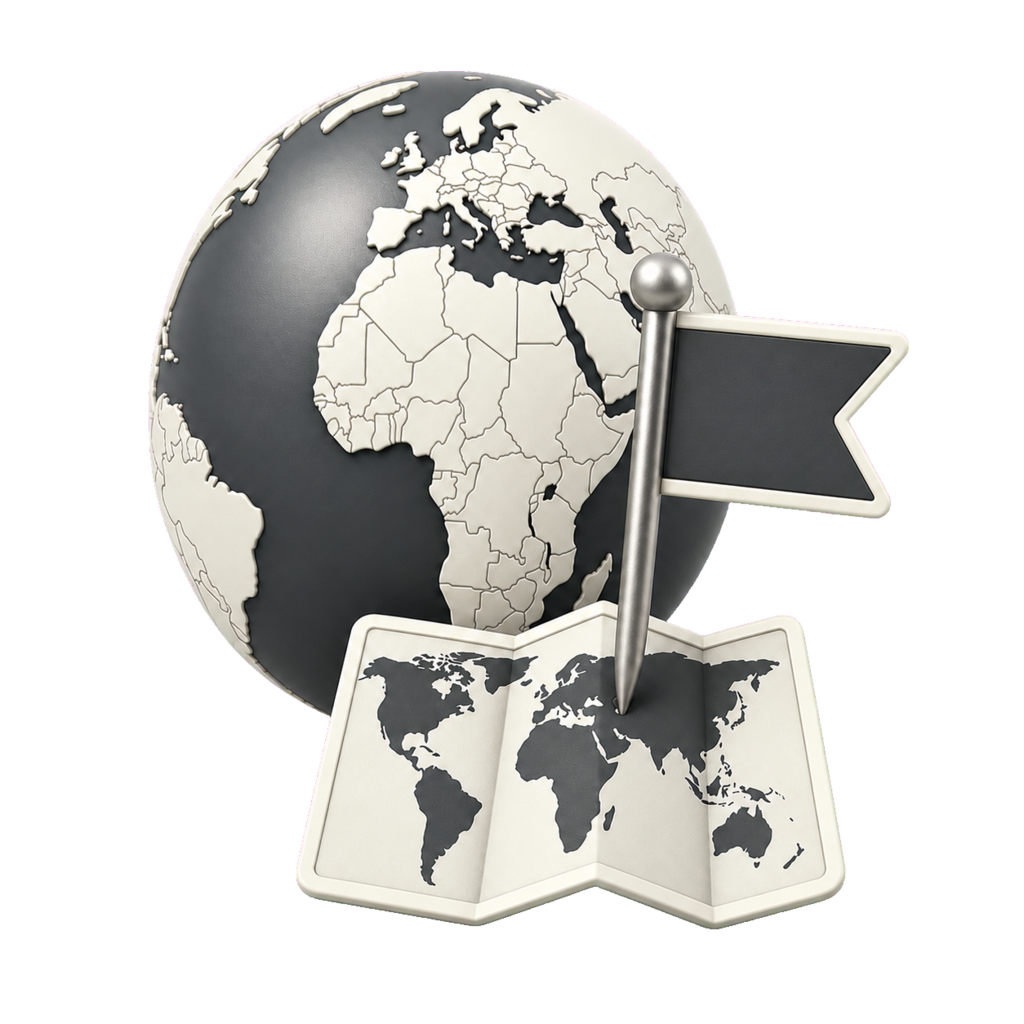
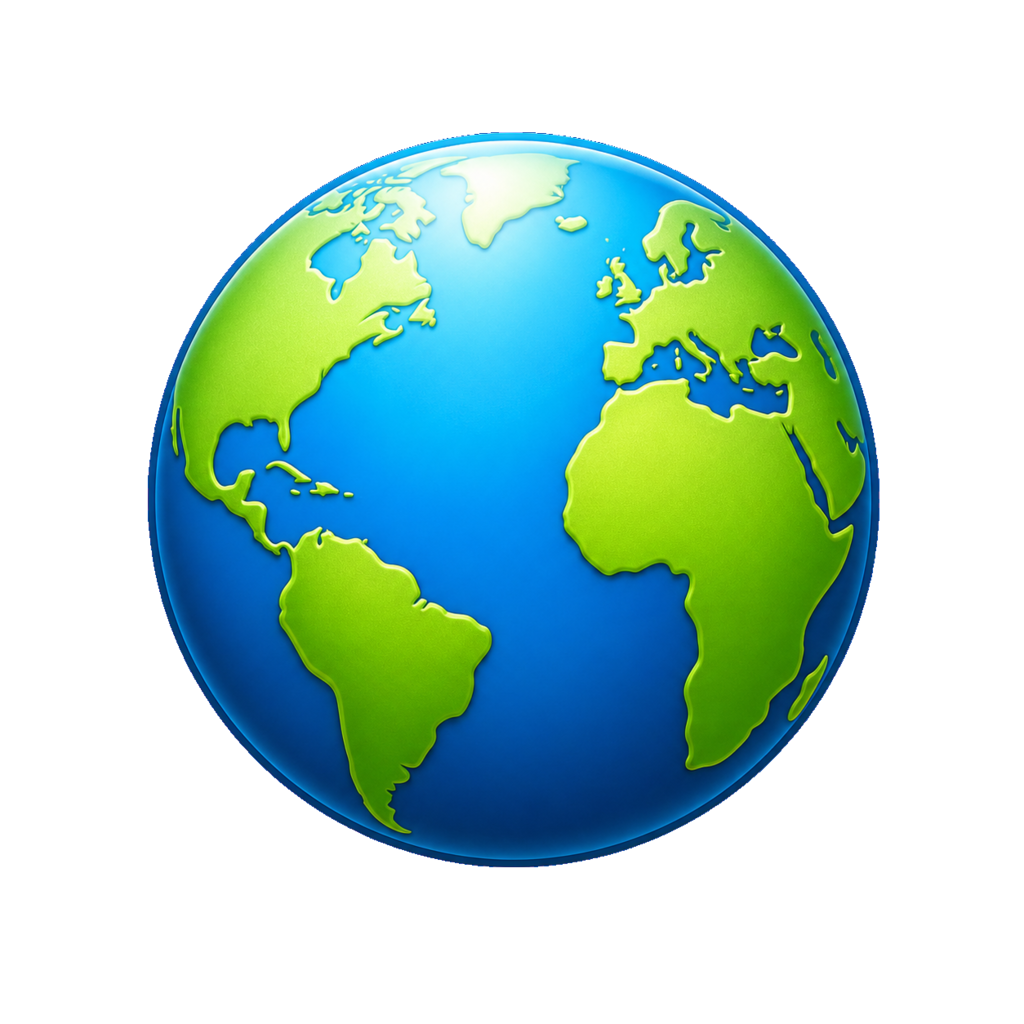
feat: add zodiac guides for constellations and improve rendering logic

diff --git a/applications/constellations-in-the-sky/render.html b/applications/constellations-in-the-sky/render.html
@@ -22,7 +22,6 @@
         min-height: 0;
         display: grid;
         grid-template-columns: minmax(0, 1fr) 226px;
-        border: 4px solid currentColor;
       }
 
       .sky-stage {
@@ -124,6 +123,10 @@
         font-weight: 720;
       }
 
+      .highlight-note:empty {
+        display: none !important;
+      }
+
       .fact-grid {
         display: grid;
         grid-template-columns: 1fr 1fr;
@@ -162,6 +165,11 @@
       .api-note {
         display: grid;
         gap: 3px;
+      }
+
+      .api-label,
+      .api-value {
+        display: none;
       }
 
       .api-value {
@@ -225,10 +233,6 @@
       }
 
       @media (max-width: 520px), (max-height: 520px) {
-        .stars-shell {
-          border-width: 3px;
-        }
-
         .stars-panel {
           gap: 8px;
           padding: 10px;
@@ -344,84 +348,96 @@
             name: "Aries",
             ra: 42,
             dec: 20,
-            note: "Aries is a small northern zodiac constellation. Its modest pattern sits between Pisces and Taurus and marks the Ram in the traditional zodiac."
+            note: "Aries is a small northern zodiac constellation. Its modest pattern sits between Pisces and Taurus and marks the Ram in the traditional zodiac.",
+            guide: "Look for a short bent line of three modest stars west of the Pleiades and east of Pisces. The brightest point is Hamal."
           },
           {
             key: "Tau",
             name: "Taurus",
             ra: 68,
             dec: 18,
-            note: "Taurus is one of the richest zodiac constellations, with Aldebaran, the Hyades, and the Pleiades all nearby."
+            note: "Taurus is one of the richest zodiac constellations, with Aldebaran, the Hyades, and the Pleiades all nearby.",
+            guide: "Find orange Aldebaran and the V-shaped Hyades. The tiny Pleiades cluster sits nearby and points you into Taurus."
           },
           {
             key: "Gem",
             name: "Gemini",
             ra: 105,
             dec: 24,
-            note: "Gemini is anchored by Castor and Pollux, the twin stars that make this winter constellation easy to recognize."
+            note: "Gemini is anchored by Castor and Pollux, the twin stars that make this winter constellation easy to recognize.",
+            guide: "Start with bright Castor and Pollux. From those twin stars, trace two roughly parallel chains back toward Orion."
           },
           {
             key: "Cnc",
             name: "Cancer",
             ra: 130,
             dec: 20,
-            note: "Cancer is faint, but it contains the Beehive Cluster, a bright open cluster visible under dark skies."
+            note: "Cancer is faint, but it contains the Beehive Cluster, a bright open cluster visible under dark skies.",
+            guide: "Cancer is faint. Look between Gemini and Leo for the hazy Beehive Cluster, then trace the small surrounding stars."
           },
           {
             key: "Leo",
             name: "Leo",
             ra: 153,
             dec: 13,
-            note: "Leo is marked by Regulus and a sickle-shaped head. It is one of spring's most recognizable zodiac constellations."
+            note: "Leo is marked by Regulus and a sickle-shaped head. It is one of spring's most recognizable zodiac constellations.",
+            guide: "Find bright Regulus, then follow the backward question-mark sickle above it. Denebola marks the lion's tail."
           },
           {
             key: "Vir",
             name: "Virgo",
             ra: 195,
             dec: -4,
-            note: "Virgo is the largest zodiac constellation. Its bright star Spica sits near the ecliptic path of the Moon and planets."
+            note: "Virgo is the largest zodiac constellation. Its bright star Spica sits near the ecliptic path of the Moon and planets.",
+            guide: "Arc from the Big Dipper handle to Arcturus, then continue the same curve to bright Spica. That anchors Virgo."
           },
           {
             key: "Lib",
             name: "Libra",
             ra: 230,
             dec: -15,
-            note: "Libra represents the scales. Its main stars form a compact shape between Virgo and Scorpius."
+            note: "Libra represents the scales. Its main stars form a compact shape between Virgo and Scorpius.",
+            guide: "Look between Spica in Virgo and red Antares in Scorpius. Libra is the modest diamond-like pattern between them."
           },
           {
             key: "Sco",
             name: "Scorpius",
             ra: 247,
             dec: -26,
-            note: "Scorpius is a dramatic zodiac constellation with the red star Antares and a long curved tail."
+            note: "Scorpius is a dramatic zodiac constellation with the red star Antares and a long curved tail.",
+            guide: "Find red Antares low in the south. From there, follow the curved chain of bright stars down to the scorpion tail."
           },
           {
             key: "Sgr",
             name: "Sagittarius",
             ra: 285,
             dec: -25,
-            note: "Sagittarius lies toward the center of the Milky Way. Its teapot-shaped star pattern is a useful summer guide."
+            note: "Sagittarius lies toward the center of the Milky Way. Its teapot-shaped star pattern is a useful summer guide.",
+            guide: "Search low in the south for the Teapot shape. The Milky Way looks like steam rising from its spout."
           },
           {
             key: "Cap",
             name: "Capricornus",
             ra: 315,
             dec: -18,
-            note: "Capricornus is a faint but ancient zodiac constellation, often drawn as a sea-goat in classical sky lore."
+            note: "Capricornus is a faint but ancient zodiac constellation, often drawn as a sea-goat in classical sky lore.",
+            guide: "Find a wide, faint triangle east of Sagittarius and west of Aquarius. Dark skies help a lot with Capricornus."
           },
           {
             key: "Aqr",
             name: "Aquarius",
             ra: 335,
             dec: -10,
-            note: "Aquarius covers a broad, mostly faint region of the zodiac and is associated with the Water Bearer."
+            note: "Aquarius covers a broad, mostly faint region of the zodiac and is associated with the Water Bearer.",
+            guide: "Look for a loose Y-shaped water jar below Pegasus. The rest of Aquarius spreads faintly south and east."
           },
           {
             key: "Psc",
             name: "Pisces",
             ra: 15,
             dec: 10,
-            note: "Pisces is a large, faint constellation of two fish joined by a cord, stretching across the autumn sky."
+            note: "Pisces is a large, faint constellation of two fish joined by a cord, stretching across the autumn sky.",
+            guide: "Use the Great Square of Pegasus as a landmark. Pisces curves around its southeast side as a faint loop and cord."
           }
         ];
 
@@ -514,6 +530,13 @@
           return typeof notes[sign.key] === "string" ? notes[sign.key] : sign.note;
         }
 
+        function localizedSignGuide(messages, sign) {
+          const guides = messages.zodiacGuides && typeof messages.zodiacGuides === "object"
+            ? messages.zodiacGuides
+            : {};
+          return typeof guides[sign.key] === "string" ? guides[sign.key] : sign.guide;
+        }
+
         function filterConstellationLines(lines, sign) {
           if (!sign || !Array.isArray(lines)) {
             return lines;
@@ -592,12 +615,8 @@
             ? localizedSign(messages, dailySign)
             : `${localizedProjection} ${Math.round(direction)}°`;
           document.querySelector("#viewNote").textContent = displayMode === "dailySign" && dailySign
-            ? localizedSignNote(messages, dailySign)
-            : message(
-                messages,
-                "viewNote",
-                `Stars to magnitude ${magnitude.toFixed(1)} with constellation lines from VirtualSky.`
-              );
+            ? `${localizedSignNote(messages, dailySign)} ${localizedSignGuide(messages, dailySign)}`
+            : "";
           document.querySelector("#locationLabel").textContent = message(messages, "locationLabel", "Location");
           document.querySelector("#locationValue").textContent =
             `${formatCoordinate(latitude, "N", "S")} ${formatCoordinate(longitude, "E", "W")}`;